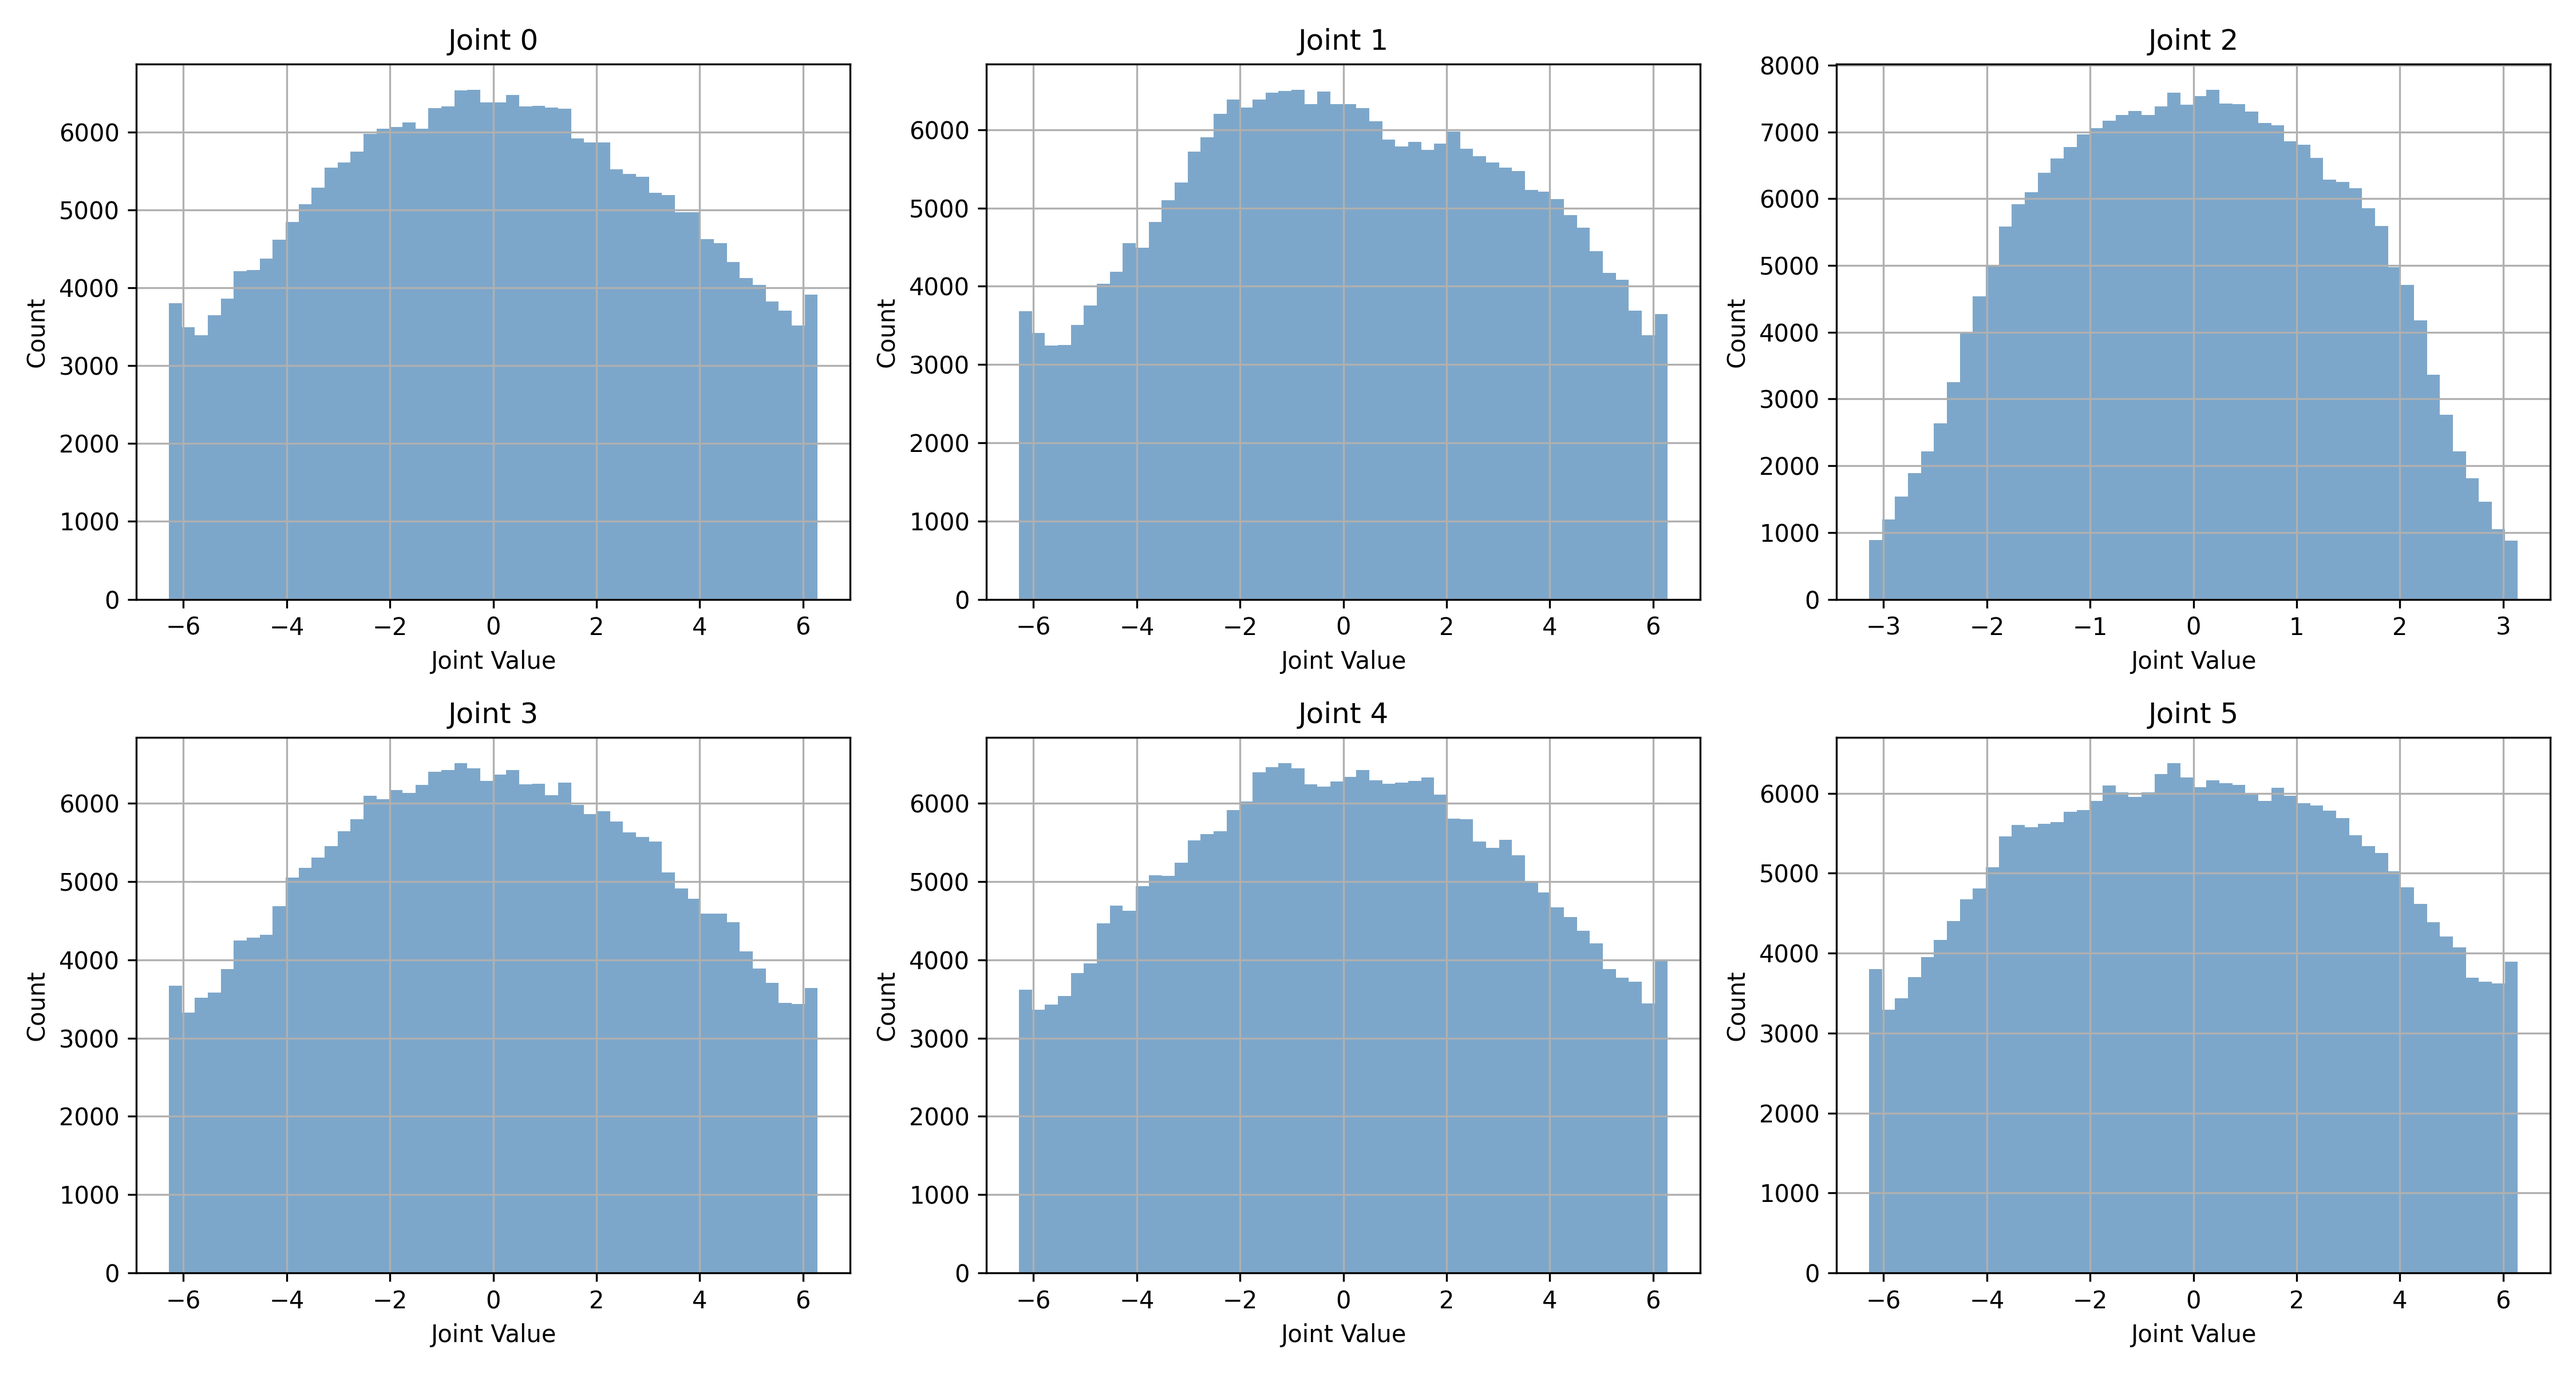
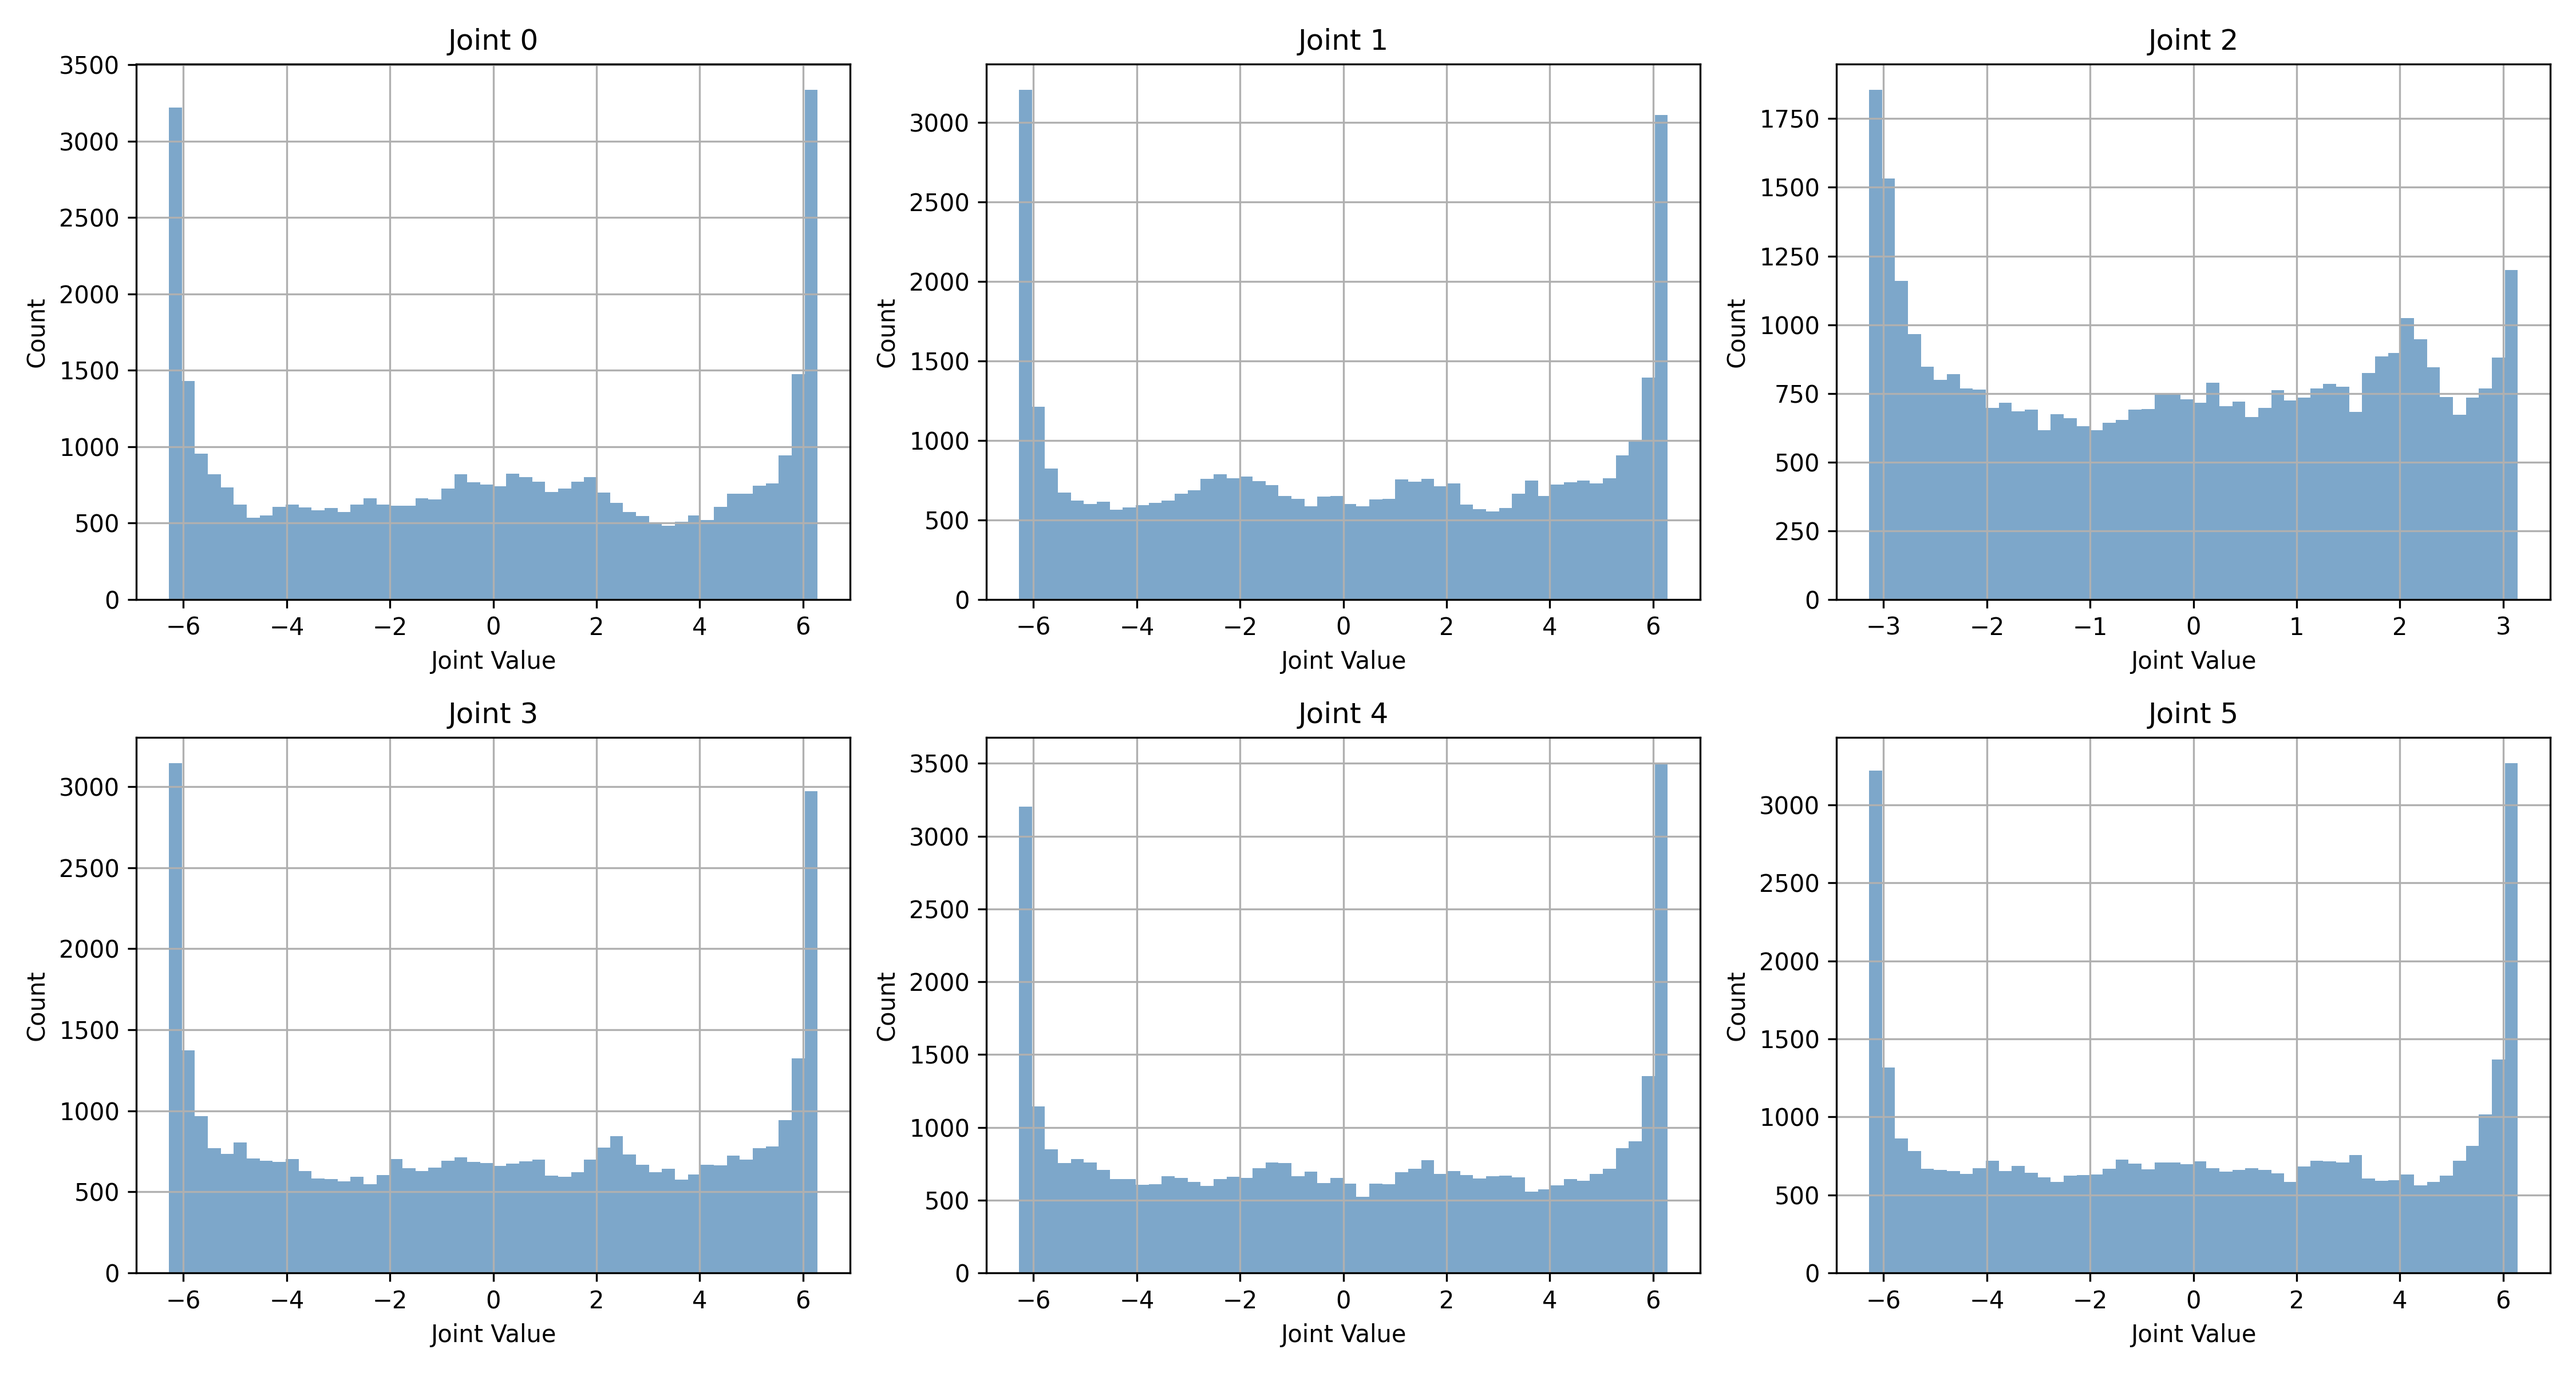
0725, switch to motion planning project

diff --git a/wrs/motion/probabilistic/Voronoi_analysis.py b/wrs/motion/probabilistic/Voronoi_analysis.py
@@ -1,0 +1,98 @@
+import numpy as np
+import matplotlib.pyplot as plt
+from sklearn.decomposition import PCA
+
+# ======== 0. 配置 ======== #
+npy_path = "wrs/robot_sim/ur3_configs_rrt_rtree_0724.npy"    # 你的节点文件
+M = 200_000                    # 蒙特卡洛采样数
+use_faiss = True               # 没有 faiss 就 False 用 KDTree
+k_cand = 32                    # R-tree/Faiss 粗筛时候选，KDTree可忽略
+
+# ======== 1. 载入节点 ======== #
+Q = np.load(npy_path).astype(np.float32)  # N x d
+N, d = Q.shape
+print("Loaded", Q.shape)
+
+# ======== 2. 构建 NN 索引 ======== #
+if use_faiss:
+    import faiss
+    index = faiss.IndexFlatL2(d)
+    index.add(Q)
+    def nn(query):
+        D,I = index.search(query, 1)
+        return I[:,0]
+else:
+    from scipy.spatial import cKDTree
+    tree = cKDTree(Q)
+    def nn(query):
+        _, I = tree.query(query, k=1, workers=-1)
+        return I
+
+# ======== 3. 采样点 ======== #
+# 建议用机器人实际关节上下限；这里用数据集包围盒示例
+jmin = Q.min(axis=0)
+jmax = Q.max(axis=0)
+X = np.random.uniform(jmin, jmax, size=(M, d)).astype(np.float32)
+
+# ======== 4. 最近邻统计（蒙特卡洛） ======== #
+batch = 10_000
+hits = np.zeros(N, dtype=np.int64)
+
+for i in range(0, M, batch):
+    q = X[i:i+batch]
+    idxs = nn(q)
+    for idx in idxs:
+        hits[idx] += 1
+
+freq = hits / M  # 频率
+print("sum(freq) =", freq.sum())
+
+# ======== 5. 指标 ======== #
+def stats_of_freq(freq):
+    N = len(freq)
+    u = np.ones(N)/N
+    eps = 1e-12
+    kl = np.sum(freq * np.log((freq+eps)/(u+eps)))
+    m = 0.5*(freq+u)
+    js = 0.5*np.sum(freq*np.log((freq+eps)/(m+eps))) + 0.5*np.sum(u*np.log((u+eps)/(m+eps)))
+    chi2 = np.sum((freq-u)**2 / (u+eps))
+    H = -np.sum(freq*np.log(freq+eps))
+    Hratio = H / np.log(N)
+    G = np.sum(np.abs(freq[:,None]-freq[None,:])) / (2*N*np.sum(freq))
+    CV = np.std(freq) / np.mean(freq)
+    return dict(KL=kl, JS=js, Chi2=chi2, Hratio=Hratio, Gini=G, CV=CV)
+
+metrics = stats_of_freq(freq)
+print(metrics)
+
+# 置信区间（可选）
+ci = 1.96*np.sqrt(freq*(1-freq)/M)
+
+# ======== 6. 可视化 ======== #
+# 6.1 排名曲线
+order = np.argsort(freq)[::-1]
+plt.figure()
+plt.semilogy(freq[order] + 1e-12)
+plt.xlabel('Node rank (desc)')
+plt.ylabel('Frequency (log)')
+plt.title('Sorted Voronoi frequency')
+plt.tight_layout()
+
+# 6.2 频率直方图（乘N后理想集中在1附近）
+plt.figure()
+plt.hist(freq * N, bins=60, alpha=0.8)
+plt.xlabel('p_i * N')
+plt.ylabel('count')
+plt.title('Histogram of normalized frequency')
+plt.tight_layout()
+
+# 6.3 PCA 2D 投影散点
+if d > 2 and Q.shape[0] > 5:
+    X2 = PCA(n_components=2).fit_transform(Q)
+    plt.figure(figsize=(6,5))
+    sc = plt.scatter(X2[:,0], X2[:,1], c=freq, s=6, cmap='viridis')
+    plt.colorbar(sc, label='freq')
+    plt.title('PCA projection colored by Voronoi freq')
+    plt.tight_layout()
+
+plt.show()

diff --git a/wrs/motion/probabilistic/rrt_kdt_construction.py b/wrs/motion/probabilistic/rrt_kdt_construction.py
@@ -34,7 +34,7 @@ def generate_uniform_points_by_rrt_extend(robot, n_points=500, ext_dist=0.3):
     pbar = tqdm(total=n_points, desc=f"[{type(robot).__name__}] Sampling")
     while len(planner.roadmap.nodes) < n_points + 1:
         prev_n = len(planner.roadmap.nodes)
-        rand_conf = extended_rand_conf(robot)
+        rand_conf = extended_rand_conf(robot, expand_ratio=1.0)
         # planner._extend_roadmap(planner.roadmap, rand_conf, ext_dist, rand_conf, [], [], False)
         planner._extend_roadmap(rand_conf, ext_dist, rand_conf, [], [])
         pbar.update(len(planner.roadmap.nodes) - prev_n)
@@ -90,7 +90,7 @@ if __name__ == '__main__':
             n_points = 259200 # 40320
         elif name == 'ur3':
             robot = ur3.UR3(pos=rm.vec(0.1, .3, .5), enable_cc=True)
-            n_points = 259200 # 40320
+            n_points = 40320 # 259200 # 40320
         elif name == 'cbtpro1300':
             robot = cbtpro1300.CobottaPro1300WithRobotiq140(pos=rm.vec(0.1, .3, .5), enable_cc=True)
             n_points = 259200 # 40320
@@ -98,7 +98,7 @@ if __name__ == '__main__':
             raise ValueError(f"Invalid robot name: {name}")
         conf_array = generate_uniform_points_by_rrt_extend(robot, n_points=n_points, ext_dist=0.4)
         print(f"Generated {len(conf_array)} configurations for {name}.")
-        save_path = f"wrs/robot_sim/{name}_configs_rrt_rtree.npy"
+        save_path = f"wrs/robot_sim/{name}_configs_rrt_rtree_0724.npy"
         np.save(save_path, conf_array)
         print(f"Configurations saved to {save_path}.")
         print(f'config_array shape: {conf_array.shape}')

diff --git a/wrs/motion/probabilistic/rrt_rtree.py b/wrs/motion/probabilistic/rrt_rtree.py
@@ -114,21 +114,24 @@ class RRT:
         nearest_nid = self.roadmap.nearest(q_rand)
         q_near = self.roadmap.get_conf(nearest_nid)
 
-        # 沿 (near → rand) 每 ext_dist 插值
-        for q_new in self._interpolate(q_near, q_rand, ext_dist)[1:]:
+        # 只取一个新点：从插值结果里拿第二个点（第一个是 q_near 本身）
+        for q_new in self._interpolate(q_near, q_rand, ext_dist, include_dst=False)[1:2]:
+        # for q_new in self._interpolate(q_near, q_rand, ext_dist, include_dst=False)[1:]:
             if self._is_collided(q_new, obstacles, others):
-                return nearest_nid            # 碰撞，停止扩展
+                return nearest_nid
+
             new_nid = uuid.uuid4()
             self.roadmap.add_node(new_nid, q_new)
             self.roadmap.add_edge(nearest_nid, new_nid)
             nearest_nid = new_nid
 
-            # 到达目标半径
             if np.linalg.norm(q_new - q_goal) <= ext_dist:
                 self.roadmap.add_node("goal", q_goal)
                 self.roadmap.add_edge(nearest_nid, "goal")
                 return "goal"
+
         return nearest_nid
+
 
     # ---- 主入口 ----
     @keep_states

diff --git a/0000_test_programs/nn_ik/formal_numik_randomtest.py b/0000_test_programs/nn_ik/formal_numik_randomtest.py
@@ -28,11 +28,11 @@ mcm.mgm.gen_frame().attach_to(base)
 
 nupdate = 10000
 best_sol_num_list = [1,3,5,10,20]
-# best_sol_num_list = [20]
+# best_sol_num_list = [3]
 # best_sol_num_list = np.arange(1, 21, 1).tolist() # [1,2,3,...,30]
 robot_list = ['cbt','cbtpro1300', 'ur3', 'yumi']
 # robot_list = ['cbt','cbtpro1300']
-# robot_list = ['ur3']
+robot_list = ['ur3']
 json_file = "metrics_robot_result.jsonl"
 
 if __name__ == '__main__':

diff --git a/wrs/robot_sim/_kinematics/ik_dd.py b/wrs/robot_sim/_kinematics/ik_dd.py
@@ -119,7 +119,7 @@ class DDIKSolver(object):
 
     def _build_data(self):
         # gen sampled qs
-        sampled_qs = np.load('wrs/robot_sim/ur3_configs_rrtfaiss.npy')
+        sampled_qs = np.load('wrs/robot_sim/ur3_configs_rrt_rtree_0724.npy')
         query_data = []
         jnt_data = []
         jinv_data = []

diff --git a/wrs/motion/probabilistic/rrt_faiss.py b/wrs/motion/probabilistic/rrt_faiss.py
@@ -147,6 +147,7 @@ class RRT:
                 self.roadmap.add_node("goal", goal_conf)
                 self.roadmap.add_edge(nearest, "goal")
                 return "goal"
+            break
         return nearest
 
     # ------------------ 主要入口 ------------------
